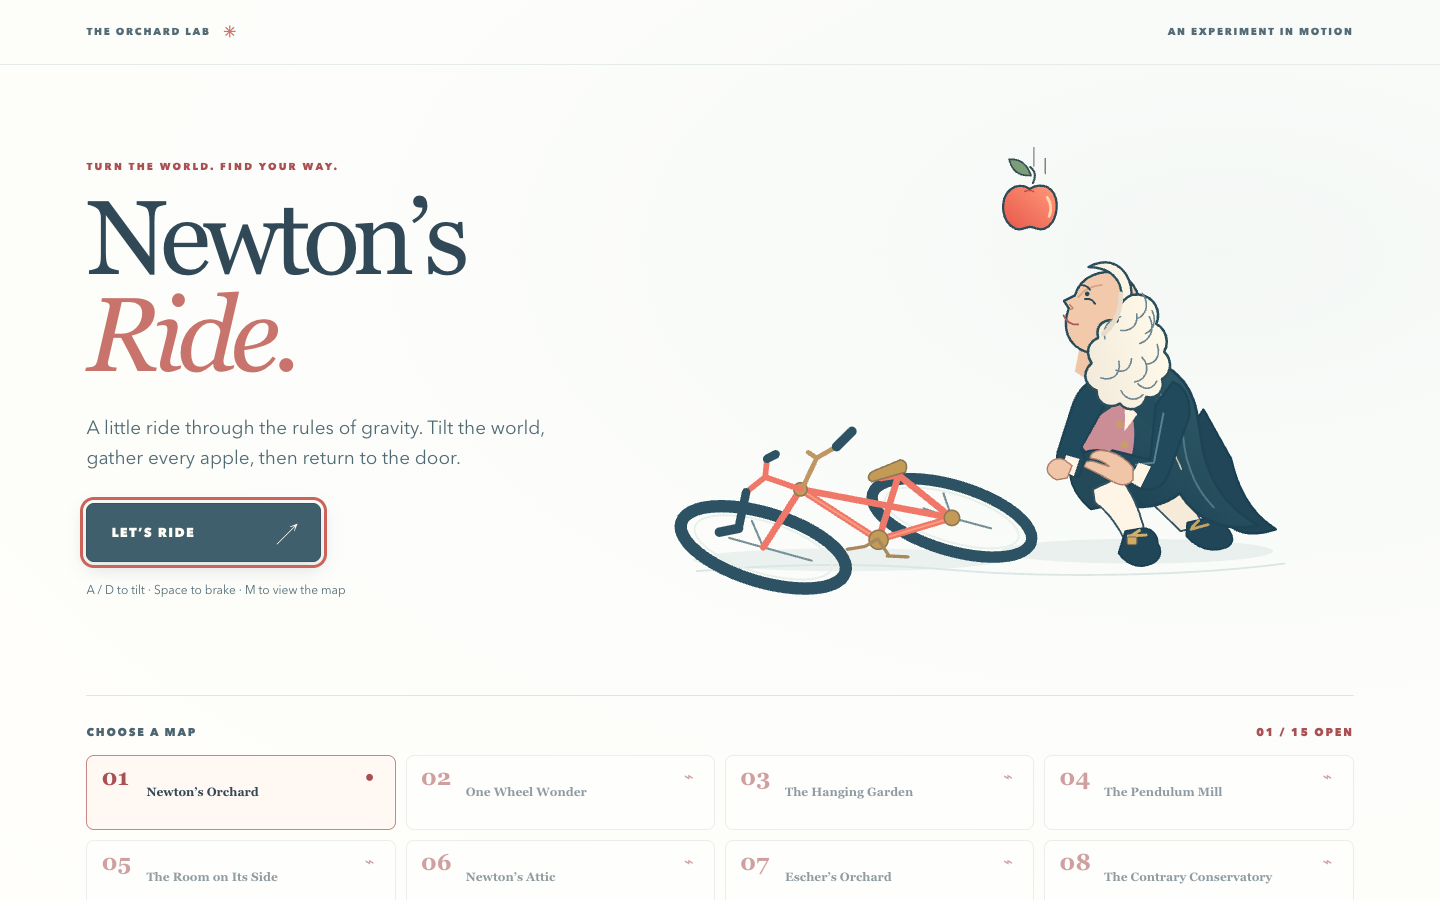
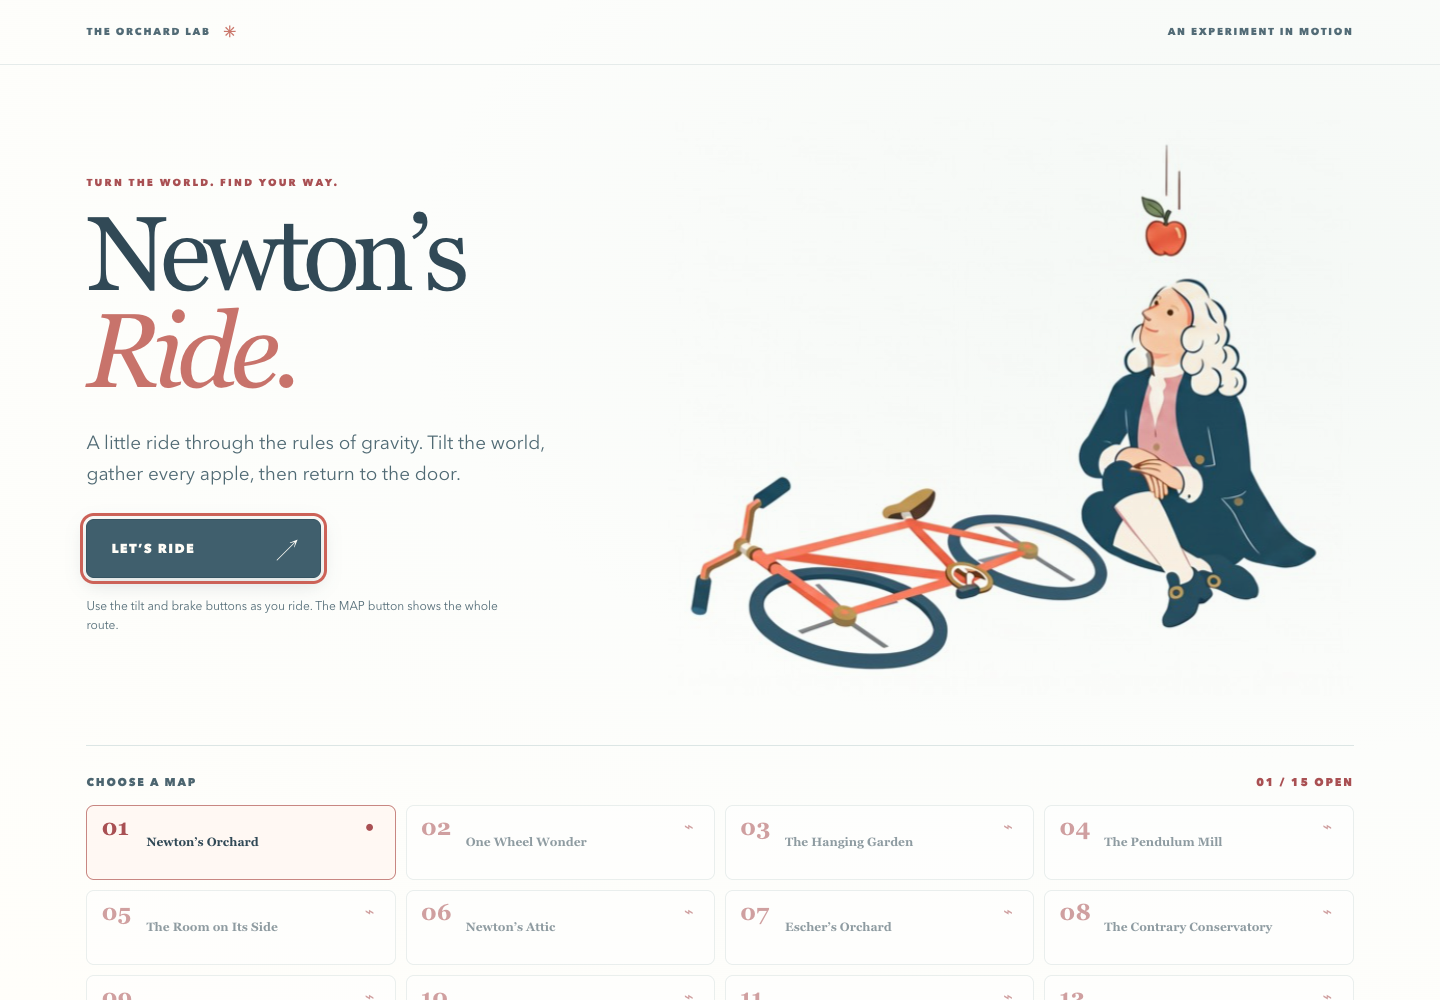
Use the selected original image on the welcome page (#7)

diff --git a/src/style.css b/src/style.css
@@ -104,21 +104,22 @@ button:focus-visible { outline: 3px solid #cc6258; outline-offset: 3px; }
 .menu-footer { border-top: 1px solid #e5ebea; font-size: 9px; }
 .menu-main { width: min(1460px, 100%); margin: 0 auto; padding: 0 clamp(28px, 6vw, 96px) 48px; }
 .menu-hero { display: grid; grid-template-columns: minmax(330px, .88fr) minmax(480px, 1.12fr); align-items: center; gap: clamp(16px, 3vw, 48px); min-height: clamp(510px, 70vh, 680px); }
-.menu-intro { display: flex; flex-direction: column; align-items: flex-start; padding: 22px 0; }
+.menu-intro { min-width: 0; display: flex; flex-direction: column; align-items: flex-start; padding: 22px 0; }
 .eyebrow { margin: 0 0 16px; color: #a95053; font-size: 10px; font-weight: 750; letter-spacing: .22em; }
 .menu-intro h1, .state-card h2 { margin: 0; font: 500 clamp(70px, 7.3vw, 118px)/.92 Georgia, "Iowan Old Style", serif; letter-spacing: -.068em; }
 .menu-intro h1 em { color: #c8736b; font-weight: 400; }
-.menu-lead { max-width: 460px; margin: 29px 0 30px; color: #506a74; font-size: clamp(16px, 1.35vw, 19px); line-height: 1.6; }
+.menu-lead { width: 100%; max-width: 460px; margin: 29px 0 30px; color: #506a74; font-size: clamp(16px, 1.35vw, 19px); line-height: 1.6; }
 .primary-btn { min-width: 190px; display: flex; justify-content: space-between; align-items: center; gap: 22px; padding: 15px 17px 14px 20px; border: 1px solid #365462; border-radius: 8px; color: #fffdf7; background: #405f6d; box-shadow: 0 6px 18px rgba(48,77,91,.17); font-size: 12px; font-weight: 750; letter-spacing: .1em; transition: transform .12s, box-shadow .12s, background .12s; }
 .primary-btn:hover { background: #526f7d; transform: translateY(-2px); box-shadow: 0 9px 22px rgba(48,77,91,.2); }
 .primary-btn span:last-child { font: 26px/1 Georgia, serif; }
 .menu-intro .primary-btn { min-width: 235px; min-height: 58px; padding: 16px 19px 15px 24px; font-size: 13px; }
-.menu-instruction { margin: 19px 0 0; max-width: 430px; color: #526b76; font-size: 12px; line-height: 1.55; }
+.menu-instruction { width: 100%; margin: 19px 0 0; max-width: 430px; color: #526b76; font-size: 12px; line-height: 1.55; }
 .menu-touch-guide { display: none; }
-.menu-art-wrap { position: relative; display: grid; place-items: center; min-width: 0; }
-.menu-art { display: block; width: 100%; height: auto; max-height: 585px; object-fit: contain; }
+/* Crop only the original image's white margins; preserve its pixels and mirror the scene. */
+.menu-art-wrap { position: relative; width: 100%; max-width: 690px; min-width: 0; aspect-ratio: 660 / 560; overflow: hidden; transform: scaleX(-1); mix-blend-mode: multiply; }
+.menu-art { position: absolute; display: block; width: 193.939394%; max-width: none; height: auto; left: -35.606061%; top: -25.892857%; }
 .campaign { padding: 29px 0 12px; border-top: 1px solid #dce6e5; }
-.campaign-heading { display: flex; justify-content: space-between; gap: 16px; padding-bottom: 15px; color: #4c6570; font-size: 11px; font-weight: 750; letter-spacing: .16em; }
+.campaign-heading { flex-wrap: wrap; display: flex; justify-content: space-between; gap: 16px; padding-bottom: 15px; color: #4c6570; font-size: 11px; font-weight: 750; letter-spacing: .16em; }
 .campaign-heading span:last-child { color: #a95053; }
 .campaign-grid { display: grid; grid-template-columns: repeat(4, minmax(0, 1fr)); gap: 10px; }
 .level-tile { min-height: 75px; display: grid; grid-template-columns: 37px minmax(0, 1fr) 16px; align-items: center; gap: 8px; padding: 10px 14px; border: 1px solid #d8e1e1; border-radius: 8px; background: rgba(255,255,255,.78); color: #314956; text-align: left; transition: transform .15s, background .15s, border-color .15s, box-shadow .15s; }
@@ -180,8 +181,7 @@ button:focus-visible { outline: 3px solid #cc6258; outline-offset: 3px; }
   .menu-intro h1 { font-size: clamp(60px, 12vw, 77px); }
   .menu-lead { max-width: 540px; font-size: 14px; margin: 19px 0 21px; }
   .menu-instruction { font-size: 11px; margin-top: 13px; }
-  .menu-art-wrap { margin: 12px auto 0; max-width: 560px; }
-  .menu-art { max-height: 310px; }
+  .menu-art-wrap { margin: 12px auto 0; max-width: 365px; }
   .campaign { padding-top: 22px; }
   .campaign-grid { grid-template-columns: repeat(2, minmax(0, 1fr)); gap: 7px; }
   .level-tile { min-height: 64px; grid-template-columns: 28px minmax(0, 1fr) 12px; gap: 5px; padding: 8px; }
@@ -194,7 +194,7 @@ button:focus-visible { outline: 3px solid #cc6258; outline-offset: 3px; }
   .menu-hero { padding-top: 29px; }
   .menu-intro h1 { font-size: clamp(58px, 14vw, 74px); }
   .menu-lead { font-size: 14px; }
-  .menu-art { max-height: 255px; }
+  .menu-art-wrap { max-width: 300px; }
   .campaign { padding-bottom: 20px; }
   .menu-footer { display: none; }
   .utility-bar { top: auto; bottom: max(117px, calc(env(safe-area-inset-bottom) + 108px)); right: 12px; }
@@ -226,8 +226,7 @@ button:focus-visible { outline: 3px solid #cc6258; outline-offset: 3px; }
   .menu-lead { font-size: 12px; margin: 10px 0 12px; line-height: 1.4; }
   .menu-intro .primary-btn { min-height: 46px; padding: 10px 14px; font-size: 10px; }
   .menu-instruction { font-size: 9px; margin-top: 9px; }
-  .menu-art-wrap { margin: 0; }
-  .menu-art { max-height: 300px; }
+  .menu-art-wrap { margin: 0; max-width: 354px; }
   .campaign { padding-top: 14px; }
   .level-tile { min-height: 53px; }
 }

diff --git a/src/ui.ts b/src/ui.ts
@@ -1,5 +1,5 @@
 import { createDisplayMode } from './display-mode';
-import welcomeIllustration from './assets/newton-welcome.svg';
+import welcomeIllustration from './assets/newton-welcome.jpg';
 import type { GameUI, Level, UICallbacks, UIState } from './types';
 
 const safe = (value: number, fallback = 0) => Number.isFinite(value) ? value : fallback;
@@ -91,7 +91,7 @@ export function createUI(host: HTMLElement, levels: Level[], callbacks: UICallba
               <button type="button" class="primary-btn" data-action="start"><span>LET’S RIDE</span><span aria-hidden="true">↗</span></button>
               <p class="menu-instruction"><span class="menu-keyboard-guide">A / D to tilt · Space to brake · M to view the map</span><span class="menu-touch-guide">Use the tilt and brake buttons as you ride. The MAP button shows the whole route.</span></p>
             </div>
-            <div class="menu-art-wrap"><img class="menu-art" src="${welcomeIllustration}" alt="Newton sits beside his fallen bicycle and looks up at a falling apple." /></div>
+            <div class="menu-art-wrap"><img class="menu-art" src="${welcomeIllustration}" width="1280" height="714" alt="Newton sits beside his fallen bicycle and looks up at a falling apple." /></div>
           </div>
           <div class="campaign">
             <div class="campaign-heading"><span>CHOOSE A MAP</span><span data-ui="progress-label">01 / ${String(levels.length).padStart(2, '0')} OPEN</span></div>

diff --git a/docs/implementation-log.md b/docs/implementation-log.md
@@ -115,3 +115,10 @@ Sol recreated the selected seated Newton illustration in actual SVG paths and sh
 Independent map review passed 18 focused native cases. The full suite passes all 167 cases; typechecking and Pages build pass. The rendered phone Mill route completes and matches the native carriage measurements. Twelve existing browser checks also pass, covering start/menu, saved unlocks, all map spawns, three viewport layouts, desktop controls and the iPhone screen guide. Independent illustration/UI review passed after one bounded fix cycle corrected clipped wheel bounds, upward gaze and narrow-screen layout. Source contains no embedded raster. Welcome evidence is saved as `evidence/welcome-desktop.png`, `welcome-portrait.png`, and `welcome-landscape.png`; both Mill transfers have their own screenshots.
 
 Residuals: the SVG is a stylized recreation of the selected artwork. Wheel support is measured geometrically; tests establish the demonstrated cradle route, not every possible trajectory. Human boarding comfort and physical iPhone sensor feel still require device play.
+
+
+## Original welcome artwork — 2026-10-04
+
+The user rejected the SVG recreation as unlike the selected illustration. The welcome page now uses the exact original 1280×714 JPEG, verified byte-for-byte against the attachment. CSS frames out its white margins and mirrors the scene so Newton remains on the right; no artwork was redrawn or resampled. The unused SVG recreation was removed. Paragraph widths are explicitly constrained to their column to avoid the mobile clipping reported in the user's screenshot.
+
+Independent visual/source review passes. Browser checks at 1440×1000, 390×844, 844×390 and 320×568 confirm original image loading, complete artwork framing, no text overflow, and working start/pause/return-to-menu. TypeScript and the Pages build pass. Welcome screenshots were refreshed. No gameplay changes.
